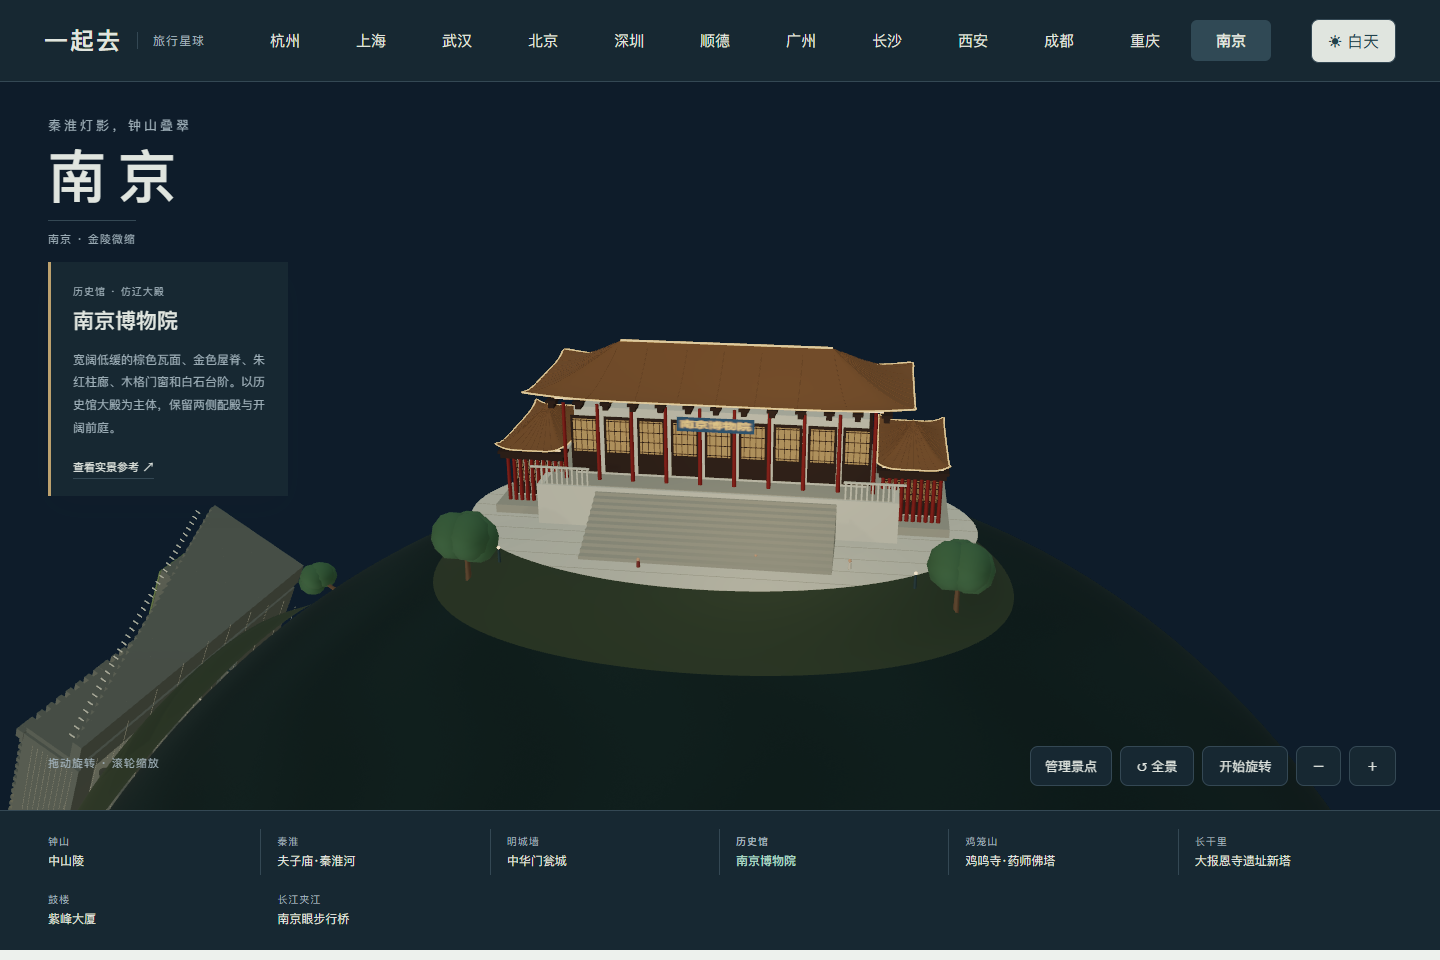
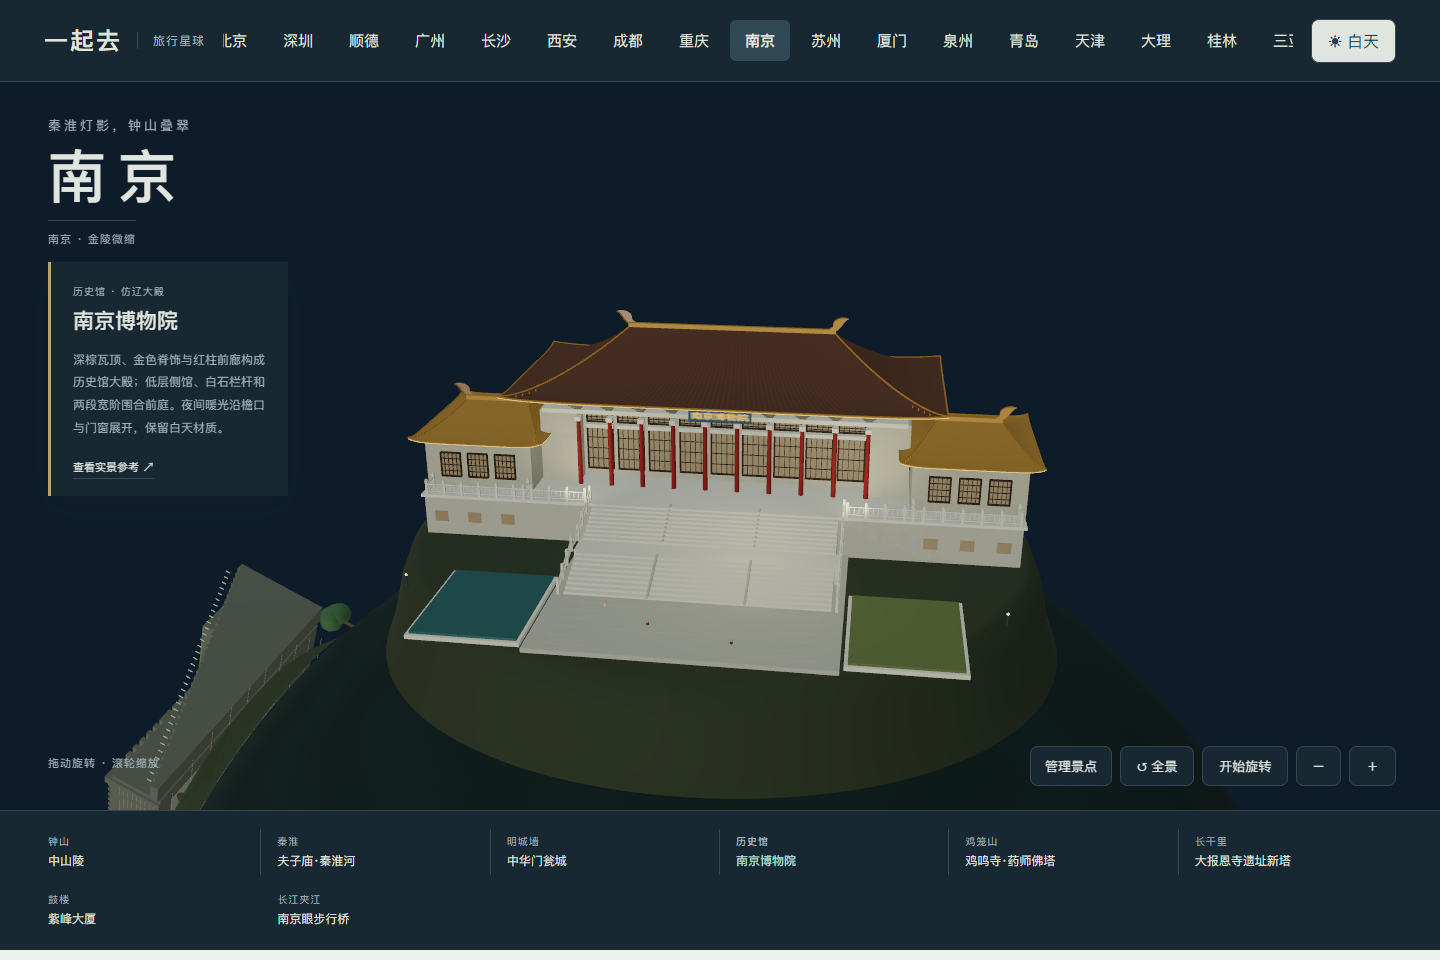
Refine Nanjing Museum historic hall from photo references

diff --git a/web/nanjing-museum.js b/web/nanjing-museum.js
@@ -1,0 +1,98 @@
+import * as THREE from 'three';
+import {disc,skin,sign,finish} from './nanjing-kit.js';
+
+// Photo-led History Hall: a deep hipped roof, stone end bays and lower attached galleries.
+function tileMaterial(k,color){
+ const m=k.mat(color,.78,.08),tex=new THREE.DataTexture(new Uint8Array([255,255,255,255]),1,1);tex.needsUpdate=true;m.map=tex;
+ m.onBeforeCompile=s=>{s.vertexShader='varying vec2 museumTileUv;\n'+s.vertexShader.replace('#include <begin_vertex>','#include <begin_vertex>\nmuseumTileUv=uv;');s.fragmentShader='varying vec2 museumTileUv;\n'+s.fragmentShader.replace('#include <color_fragment>',`#include <color_fragment>
+ float aa=max(fwidth(museumTileUv.x),.008),rib=1.0-smoothstep(.065,.065+aa,abs(fract(museumTileUv.x)-.5));
+ float visible=1.0-smoothstep(.35,.85,aa);float seam=smoothstep(.02,.02+max(fwidth(museumTileUv.y),.01),fract(museumTileUv.y));
+ diffuseColor.rgb*=mix(1.0,.88+.14*rib,visible)*mix(.97,1.0,seam);`);};m.customProgramCacheKey=()=> 'museum-tiles-v1';return m;
+}
+function tiledRoof(k,g,p,w,d,y,h,x,z,{gold=false}={}){
+ const ridge=w*.245,mat=gold?p.goldTile:p.tile;
+ const at=(side,u,v)=>{const hip=side>1,a=u*2-1,xx=hip?(side===2?1:-1)*(ridge+(w/2-ridge)*v):a*(ridge+(w/2-ridge)*v),zz=hip?a*d/2*v:(side===0?1:-1)*d/2*v;return [x+xx,y+h*(1-v)**1.7+.012*v**8*Math.abs(a)**8,z+zz];};
+ for(let side=0;side<4;side++){
+  const o=skin(k,g,(u,v)=>at(side,u,v),24,64,mat),uv=[];for(let j=0;j<=24;j++)for(let i=0;i<=64;i++)uv.push(i/64*(side<2?78:36),j/24*18);o.geometry.setAttribute('uv',new THREE.Float32BufferAttribute(uv,2));
+  const count=side<2?78:36;
+  k.line(g,Array.from({length:65},(_,i)=>at(side,i/64,1)),.003,p.gold);
+  k.line(g,Array.from({length:65},(_,i)=>{const a=at(side,i/64,1);a[1]-=.004;return a;}),.0013,p.light);
+  for(let i=0;i<=count;i++){const a=at(side,i/count,1),o=k.mesh(g,new THREE.CircleGeometry(.0018,8),p.gold,a[0],a[1]-.001,a[2]);o.rotation.y=side<2?(side?Math.PI:0):(side===2?Math.PI/2:-Math.PI/2);}
+ }
+ for(const s of [-1,1])k.line(g,Array.from({length:25},(_,i)=>at(0,s<0?0:1,i/24)),.0035,p.gold);
+ k.box(g,ridge*2,.014,.014,p.gold,x,y+h+.009,z);
+ for(const s of [-1,1]){
+  // Curled ridge-end ornaments replace pointed, generic pavilion tips.
+  const shape=new THREE.Shape();shape.moveTo(-.015,0);shape.bezierCurveTo(.018,.002,.019,.037,.039,.044);shape.bezierCurveTo(.010,.051,-.015,.037,-.009,.017);shape.lineTo(-.021,.008);shape.closePath();
+  const o=k.mesh(g,new THREE.ExtrudeGeometry(shape,{depth:.010,bevelEnabled:true,bevelSize:.001,bevelThickness:.001,bevelSegments:1,curveSegments:12}),p.gold,x+s*ridge,y+h+.009,z-.005);o.scale.x=s;
+  for(let i=0;i<4;i++){const a=at(0,s<0?.025:.975,.79+i*.05);k.cyl(g,.0017,.003,.007,p.gold,a[0],a[1]+.004,a[2],6);}
+ }
+}
+function rail(k,g,p,a,b){
+ const len=Math.hypot(b[0]-a[0],b[2]-a[2]),n=Math.max(1,Math.round(len/.055)),at=t=>a.map((v,i)=>v+(b[i]-v)*t);
+ for(const h of [.009,.034])k.beam(g,at(0).map((v,i)=>v+(i===1?h:0)),at(1).map((v,i)=>v+(i===1?h:0)),.0025,p.pale);
+ for(let i=0;i<=n;i++){const [x,y,z]=at(i/n);k.box(g,.008,.047,.008,p.pale,x,y+.022,z);k.ball(g,.005,p.pale,x,y+.047,z);}
+ for(let i=0;i<n*4;i++){const [x,y,z]=at((i+.5)/(n*4));k.box(g,.0024,.018,.0024,p.pale,x,y+.023,z);}
+}
+function pane(k,g,p,x,y,z,w,h,side=0){
+ const group=new THREE.Group();group.position.set(x,y,z);group.rotation.y=side;g.add(group);
+ k.box(group,w,h,.005,p.wood,0,0,0);k.box(group,w-.009,h-.010,.003,p.glass,0,0,.003);
+ for(let i=0;i<=5;i++)k.box(group,.0017,h,.004,p.wood,-w/2+i*w/5,0,.006);
+ for(let i=0;i<=4;i++)k.box(group,w,.0018,.004,p.wood,0,-h/2+i*h/4,.006);
+}
+export function museum(k){
+ const g=new THREE.Group(),p={land:k.mat('#8e9e7d',.98),stone:k.mat('#b7b7aa',.94),pale:k.mat('#d2d1c4',.87),wall:k.mat('#b9b8a6',.93),red:k.mat('#9e382b',.86),wood:k.mat('#493b2f',.88),tile:tileMaterial(k,'#694535'),gold:k.mat('#b98c39',.62,.23),goldTile:tileMaterial(k,'#af873d'),bracket:k.mat('#797968',.94),leaf:k.mat('#758151',.98),water:k.mat('#4c7c7c',.30,.3)};
+ p.land.userData.landscape=true;p.water.userData.water=true;
+ p.light=k.mat('#b99b64',.68,.10,'#f5c77b');p.light.userData.night.intensity=.65;
+ p.glass=k.mat('#525447',.54,.08,'#e4be82');p.glass.userData.night.intensity=.16;p.glass.userData.pulse={speed:.22,phase:1.7};
+ p.tile.userData.night={color:new THREE.Color('#9f8466'),intensity:.04};
+ const ground=(x,z)=>{const t=THREE.MathUtils.smoothstep(Math.hypot(x/1.09,z/1.01),.90,1),sag=2.15-Math.sqrt(Math.max(.001,2.15**2-x*x-z*z));return .016*(1-t)-sag*t+.002;};disc(k,g,1.09,1.01,ground,p.land);
+ // Level upper terrace and two broad flights with a shared landing.
+ k.box(g,1.88,.126,.71,p.stone,0,.081,-.225);k.box(g,1.90,.010,.72,p.pale,0,.149,-.225);
+ k.box(g,.84,.013,.68,p.stone,0,.024,.48);
+ const stair=(front,n,run,bottom,top)=>{for(let i=0;i<n;i++){const y=bottom+(top-bottom)*(i+1)/n;k.box(g,.77,y-.018,run/n+.001,p.pale,0,(y+.018)/2,front-i*run/n);}};
+ stair(.50,9,.165,.031,.092);k.box(g,.79,.074,.075,p.pale,0,.055,.306);stair(.263,9,.15,.092,.154);
+ for(const s of [-1,1]){
+  rail(k,g,p,[s*.40,.031,.51],[s*.40,.092,.35]);rail(k,g,p,[s*.40,.092,.35],[s*.40,.092,.27]);rail(k,g,p,[s*.40,.092,.27],[s*.40,.154,.11]);
+  rail(k,g,p,[s*.41,.154,.13],[s*.93,.154,.13]);rail(k,g,p,[s*.93,.154,.13],[s*.93,.154,-.16]);
+ }
+ for(const x of [-.14,.14]){k.beam(g,[x,.034,.51],[x,.096,.35],.004,p.stone);k.beam(g,[x,.096,.263],[x,.157,.113],.004,p.stone);}
+ // Main portico has real depth: the red columns stand in front of recessed doors.
+ const floor=.154,cz=-.27;
+ k.box(g,1.12,.245,.40,p.wall,0,floor+.1225,cz-.04);
+ for(const s of [-1,1])k.box(g,.125,.245,.46,p.wall,s*.5325,floor+.1225,cz);
+ k.box(g,1.17,.014,.48,p.pale,0,.400,cz);
+ for(let i=0;i<10;i++){
+  const x=(i-4.5)*.103;k.cyl(g,.0067,.008,.218,p.red,x,floor+.109,cz+.245,12);k.box(g,.020,.014,.025,p.pale,x,.381,cz+.245);
+  for(let level=0;level<3;level++){k.box(g,.022+level*.012,.006,.022+level*.008,p.bracket,x,.417+level*.008,cz+.246+level*.006);for(const s of [-1,1])k.box(g,.008,.010,.015,p.bracket,x+s*(.007+level*.006),.421+level*.008,cz+.25);}
+ }
+ for(let i=0;i<9;i++){
+  const x=(i-4)*.103;pane(k,g,p,x,.253,cz+.164,.088,.147);pane(k,g,p,x,.361,cz+.164,.088,.036);k.box(g,.090,.012,.018,p.pale,x,.330,cz+.167);
+ }
+ // Oversailing beams, repeated bracket sets and gold-brown tile relief.
+ for(const z of [cz+.255,cz-.255]){k.box(g,1.23,.013,.024,p.bracket,0,.443,z);for(let i=0;i<32;i++)k.box(g,.014,.010,.041,p.bracket,(i/31-.5)*1.20,.445,z);}
+ tiledRoof(k,g,p,1.40,.66,.457,.165,0,cz);
+ sign(k,g,'南京博物院',.20,.040,0,.416,cz+.274,{background:'#244a68',color:'#dfbc6a'});
+ // Lower side galleries have stone walls and attached corridors, rather than open kiosks.
+ for(const side of [-1,1]){
+  const x=side*.777;k.box(g,.35,.156,.44,p.wall,x,.232,-.16);
+  for(let i=0;i<3;i++)pane(k,g,p,x+(i-1)*.09,.235,.064,.067,.083);
+  for(let i=0;i<4;i++)pane(k,g,p,side*.954,.235,-.31+i*.097,.065,.083,side*Math.PI/2);
+  tiledRoof(k,g,p,.43,.51,.318,.063,x,-.16,{gold:true});
+  for(let i=0;i<3;i++)k.box(g,.043,.035,.002,p.glass,x+(i-1)*.11,.081,.133);
+  rail(k,g,p,[side*.61,.154,.13],[side*.61,.154,-.08]);
+ }
+ // Retain the low rear exhibition connection visible behind the old hall.
+ k.box(g,1.15,.20,.20,p.wall,0,.254,-.56);k.box(g,1.19,.018,.24,p.bracket,0,.363,-.56);
+ for(let i=0;i<14;i++)pane(k,g,p,(i-6.5)*.078,.268,-.662,.053,.085,Math.PI);
+ for(const side of [-1,1])for(let i=0;i<3;i++)pane(k,g,p,side*.597,.270,-.34+i*.10,.056,.096,side*Math.PI/2);
+ // The reflective forecourt and lawns preserve the main approach to the stairs.
+ for(const side of [-1,1]){
+  const x=side*.59;k.box(g,.32,.012,.39,p.pale,x,.024,.60);k.box(g,.30,.009,.37,side<0?p.water:p.leaf,x,.033,.60);
+  for(let i=0;i<6;i++)k.box(g,.11,.001,.0014,p.stone,side*.31,.032,.55+i*.047);
+ }
+ for(const z of [.43,.56,.69,.82])k.box(g,.53,.001,.0015,p.stone,0,.032,z);
+ finish(k,g,{lamps:[[-.87,.48],[.87,.48],[-.83,-.43],[.83,-.43]],visitors:[[-.11,.65],[.13,.72],[-.25,.56]]});
+ for(const x of [-.43,.43]){const light=new THREE.SpotLight('#e9dfc0',0,1.0,Math.PI*.28,.8,2);light.position.set(x,.21,.26);light.target.position.set(x,.40,-.22);light.userData.nightIntensity=.09;g.add(light,light.target);}
+ return g;
+}

diff --git a/web/nanjing-landmarks.js b/web/nanjing-landmarks.js
@@ -5,7 +5,7 @@ export const LANDMARKS=[
  {id:'mausoleum',name:'中山陵',area:'钟山 · 蓝瓦白石',x:-1.08,z:.94,height:.83,distance:3.0,view:[.24,.8,1.8],description:'宽阔石阶沿林木围合的山坡上升，祭堂补齐蓝琉璃瓦、灰石斗拱、卷草石雕、三座真实门洞和青铜花窗。四角石阙围住主殿，夜间以克制白光照亮石材层次。',source:'https://zschina.nanjing.gov.cn/lyzx/202504/t20250425_5135983.html'},
  {id:'fuzimiao',name:'夫子庙·秦淮河',area:'秦淮 · 檐影画舫',x:1.08,z:.94,height:.49,distance:3.0,view:[.32,.83,1.8],description:'大成殿、两侧廊屋、临水亭与红色照壁围绕秦淮水面。石栏、木格窗和画舫保留尺度层次，夜间用檐下暖光照出水岸。',source:'https://js.cnr.cn/whly/20220418/t20220418_525798755.shtml'},
  {id:'zhonghua',name:'中华门瓮城',area:'明城墙 · 三重瓮城',x:-1.08,z:-.94,height:.42,distance:3.0,view:[.70,1.0,1.8],description:'三重内瓮城、贯通门洞、两层主城台、藏兵洞和两侧登城马道。按现存城台建模，城顶不加已经毁失的木构城楼。',source:'https://wlj.nanjing.gov.cn/ztzl/mcq/gzqk/202302/t20230228_3838766.html'},
- {id:'museum',name:'南京博物院',area:'历史馆 · 仿辽大殿',x:1.08,z:-.94,height:.47,distance:2.9,view:[.25,.68,1.8],description:'宽阔低缓的棕色瓦面、金色屋脊、朱红柱廊、木格门窗和白石台阶。以历史馆大殿为主体，保留两侧配殿与开阔前庭。',source:'https://zfgbpx.nju.edu.cn/7c/d1/c46023a556241/page.htm'},
+ {id:'museum',name:'南京博物院',area:'历史馆 · 仿辽大殿',x:1.22,z:-1.09,height:.69,distance:3.65,view:[.25,.68,1.8],description:'深棕瓦顶、金色脊饰与红柱前廊构成历史馆大殿；低层侧馆、白石栏杆和两段宽阶围合前庭。夜间暖光沿檐口与门窗展开，保留白天材质。',source:'https://shpx.nju.edu.cn/9a/aa/c59556a694954/page.htm'},
  {id:'jiming',name:'鸡鸣寺·药师佛塔',area:'鸡笼山 · 黄墙古塔',x:-1.08,z:.94,hemisphere:-1,height:1.0,distance:3.05,view:[.45,.75,1.8],description:'黄色院墙与殿堂沿坡叠升，七层八角药师佛塔露出深色翘檐与金色塔刹。石阶连接各层庭院，树冠围住寺院侧后方。',source:'https://you.ctrip.com/sight/nanjing9/1677.html'},
  {id:'baoen',name:'大报恩寺遗址新塔',area:'长干里 · 玻璃保护塔',x:1.08,z:.94,hemisphere:-1,height:1.14,distance:2.85,view:[.40,.68,1.8],description:'九层八角玻璃塔、纤细外框、层间透光平台与金色塔刹。表现遗址上的现代保护建筑，夜间分出暖金层灯和上层冷色玻璃。',source:'https://www.waclighting.com.cn/cases-detail/27'},
  {id:'zifeng',name:'紫峰大厦',area:'鼓楼 · 层叠天际线',x:-1.08,z:-.94,hemisphere:-1,height:1.59,distance:3.2,view:[.40,.64,1.8],description:'错开的上下玻璃体量、外露设备层、银色竖片、圆弧侧面和细长尖塔。夜景保留银灰建筑原色，窗灯缓慢明暗变化。',source:'https://www.smithgill.com/work/zifeng_tower/'},

diff --git a/web/nanjing-heritage.js b/web/nanjing-heritage.js
@@ -2,15 +2,8 @@ import * as THREE from 'three';
 import {palette,site,paving,steps,grove,sign,finish,hall,hip,cornice,archWall,pond,bridge} from './nanjing-kit.js';
 export {mausoleum} from './nanjing-mausoleum.js';
 
-export function museum(k){
- const g=new THREE.Group(),p=palette(k),ground=site(k,g,.75,.59);paving(k,g,p,.65,.40);
- steps(k,g,p,0,.28,.60,12,.105,.22);k.box(g,.90,.106,.40,p.pale,0,.075,-.10);
- const brown=k.mat('#956b42',.83);hall(k,g,p,{w:.82,d:.33,h:.20,y:.13,z:-.10,roof:brown,roofEdge:p.gold});
- for(const x of [-.48,.48])hall(k,g,p,{x,z:-.13,y:.045,w:.15,d:.31,h:.13,roof:brown,roofEdge:p.gold});
- for(const s of [-1,1]){for(let i=0;i<10;i++){const x=s*(.32+i*.013);k.box(g,.004,.042,.004,p.pale,x,.15,.096);}k.box(g,.15,.004,.006,p.pale,s*.39,.174,.096);}
- sign(k,g,'南京博物院',.19,.037,0,.299,.081,{background:'#284e6d',color:'#e8bf74'});grove(k,g,ground,[[-.59,.25,.13],[.59,.25,.13]]);
- return finish(k,g,{lamps:[[-.49,.30],[.49,.30],[-.30,-.35],[.30,-.35]],visitors:[[-.15,.31],[.12,.25],[.34,.25]]});
-}
+export {museum} from './nanjing-museum.js';
+
 export function fuzimiao(k){
  const g=new THREE.Group(),p=palette(k),ground=site(k,g,.73,.68);paving(k,g,p,.61,.53);
  hall(k,g,p,{w:.54,d:.25,h:.19,y:.05,z:-.30,double:true});sign(k,g,'大成殿',.11,.024,0,.27,-.149,{background:'#263b31',color:'#d9b66b'});

diff --git a/README.md b/README.md
@@ -1,6 +1,6 @@
 # 一起去 · Travel Planet
 
-用可旋转的 3D 城市星球发现景点，再和朋友一起决定怎么旅行。当前版本 **0.55.33**，支持桌面和手机网页。
+用可旋转的 3D 城市星球发现景点，再和朋友一起决定怎么旅行。当前版本 **0.55.34**，支持桌面和手机网页。
 
 **[上海旅行 · 在线体验](https://43.139.249.151/travel/shanghai-trip.html)** · **[杭州旅行](https://43.139.249.151/travel/)** · **[武汉旅行](https://43.139.249.151/travel/wuhan-trip.html)** · **[武汉纯地图](https://43.139.249.151/travel/wuhan.html)** · **[上海纯地图](https://43.139.249.151/travel/shanghai.html)** · **[北京地图](https://43.139.249.151/travel/beijing.html)** · **[深圳地图](https://43.139.249.151/travel/shenzhen.html)** · **[顺德地图](https://43.139.249.151/travel/shunde.html)** · **[广州地图](https://43.139.249.151/travel/guangzhou.html)** · **[长沙地图](https://43.139.249.151/travel/changsha.html)** · **[西安地图](https://43.139.249.151/travel/xian.html)** · **[成都地图](https://43.139.249.151/travel/chengdu.html)** · **[重庆地图](https://43.139.249.151/travel/chongqing.html)** · **[南京地图](https://43.139.249.151/travel/nanjing.html)** · **[苏州地图](https://43.139.249.151/travel/suzhou.html)** · **[厦门地图](https://43.139.249.151/travel/xiamen.html)** · **[泉州地图](https://43.139.249.151/travel/quanzhou.html)** · **[青岛地图](https://43.139.249.151/travel/qingdao.html)** · **[天津地图](https://43.139.249.151/travel/tianjin.html)** · **[大理地图](https://43.139.249.151/travel/dali.html)** · **[桂林地图](https://43.139.249.151/travel/guilin.html)** · **[三亚地图](https://43.139.249.151/travel/sanya.html)** · **[香港地图](https://43.139.249.151/travel/hongkong.html)** · **[澳门地图](https://43.139.249.151/travel/macau.html)**
 
@@ -37,7 +37,7 @@
 
 重庆新增 **8 组具名地标**：洪崖洞、来福士朝天门、千厮门大桥、重庆大剧院、人民大礼堂、人民解放纪念碑、李子坝单轨穿楼和长江索道。连续河道表现两江交汇，八组分布于两半球；洪崖洞包含临江山墙、错层露台、退后的暗窗、吊脚柱、贯通入口和连续崖坡；保留玻璃连廊、桥塔真开口、绿瓦圆殿、穿楼通道与悬挂轿厢。提供日夜、自由旋转、手机触控和整组管理，重庆尚未接入多人旅行。[查看实拍参考](docs/CHONGQING_REFERENCES.md)。
 
-南京新增 **8 组具名地标**：中山陵、夫子庙秦淮河、中华门瓮城、南京博物院、鸡鸣寺药师佛塔、大报恩寺遗址新塔、紫峰大厦和南京眼。中山陵补齐蓝瓦屋面、灰石斗拱、卷草石雕、青铜花窗、真实门洞与承托山坡；保留连续石阶、贯通藏兵洞、古建木格门窗、玻璃保护塔与倾斜双桥环；双半球布局，支持日夜、近看、手机触控和整组管理。南京当前未接入多人旅行。[查看实拍参考](docs/NANJING_REFERENCES.md)。
+南京新增 **8 组具名地标**：中山陵、夫子庙秦淮河、中华门瓮城、南京博物院、鸡鸣寺药师佛塔、大报恩寺遗址新塔、紫峰大厦和南京眼。中山陵补齐蓝瓦屋面、灰石斗拱、卷草石雕、青铜花窗、真实门洞与承托山坡；保留连续石阶、贯通藏兵洞、古建木格门窗、玻璃保护塔与倾斜双桥环；双半球布局，支持日夜、近看、手机触控和整组管理。南京博物院补齐深棕瓦顶、金色脊饰、红柱前廊、相连侧馆和两段宽阶，夜间采用檐口与门窗暖光。南京当前未接入多人旅行。[查看实拍参考](docs/NANJING_REFERENCES.md)。
 
 苏州博物馆已补齐八角主厅、菱格石屋面、下沉玻璃天窗、通透连廊、片石水院与门庭。苏州新增 **8 组具名地标**：苏州博物馆、拙政园、留园冠云峰、虎丘云岩寺塔、寒山寺普明宝塔、东方之门、盘门水陆城门和平江路胡厢使桥。保留几何水院、六角荷亭、穿孔太湖石、砖塔与木塔的不同形制，以及水陆门洞和银灰玻璃尖拱；支持两半球、日夜、自由旋转、手机触控和整组管理。苏州当前未接入多人旅行。[查看实拍参考](docs/SUZHOU_REFERENCES.md)。
 

diff --git a/docs/TESTING.md b/docs/TESTING.md
@@ -406,3 +406,10 @@ python tools/travel-flow-check.py
 353 项完整测试、358 项语法检查通过，含 7 项重庆专项。新增检查确认三处牌楼开口可通行，中央步道与多级台地连续连接且无突兀高差；双半球间距、球面落地、原色保持、动画与资源释放继续通过。
 
 2026-11-04 21:00—21:03，本地无头浏览器完成八组取景、日夜正侧背、320/390、整组管理与刷新、触控缩放拖动、键盘、五种宽度及 WebGL 恢复。关键截图直接核看，页面异常与业务写入均为 0，手机为浏览器模拟。两轮草稿中修正侧墙空白和屋顶夜间过暗，降低瓦垄密度；不以单张正面图代替交互验收。
+
+
+## 0.55.34 南京博物院
+
+354 项完整测试、359 项语法检查通过，含 5 项南京专项。新增检查覆盖两段台阶及中间平台连续性、柱廊门扇真实退进、瓦面合并后保留纹理坐标。既有球面落地、双半球净空、日夜底色、动画与资源释放继续通过。
+
+2026-11-04 21:25—21:28，本地独立内存服务与无头浏览器完成八组取景、日夜正侧背及手机画面、整组增删与刷新恢复、触控缩放拖动、键盘、五种宽度和 WebGL 恢复。关键截图直接核看，页面错误和业务写入均为 0。手机为浏览器模拟。草稿中瓦垄摩尔纹和台阶接驳缝隙已经修正；模型仅表现历史馆大殿及局部前庭，不冒充完整院区。

diff --git a/docs/NANJING_REFERENCES.md b/docs/NANJING_REFERENCES.md
@@ -35,3 +35,14 @@
 ![祭堂侧向细节](images/nanjing-mausoleum-oblique.png)
 
 ![祭堂夜间展示](images/nanjing-mausoleum-night.png)
+
+
+## 0.55.34 南京博物院历史馆细化
+
+对照[南京大学夜景实拍](https://shpx.nju.edu.cn/9a/aa/c59556a694954/page.htm)、[维基小霸王拍摄的正面照片](https://commons.wikimedia.org/wiki/File:Nanjing_Museum_-_main_building.jpg)及[南京博物院2022年报第170页](https://www.njmuseum.org.cn/files/nb/news/files/2023/02/13/89d976f1cd9fff8638ea34ef842df434.pdf)的侧俯视，重新表现历史馆老大殿：深棕瓦面、金色脊饰与鸱尾、朱红前廊、石墙端间、木格门窗和低层侧馆。两段宽阶、休息平台及白石栏杆连接前庭；水庭与草地让中轴保持开敞。
+
+瓦垄使用按屏幕尺度柔化的程序纹理，避免远景出现摩尔纹。夜间檐线、窗灯和入口补光分层，建筑原色保留；缓慢变化属于产品展示设计，不代表现实夜游时间或固定灯光节目。本模块只概括历史馆及局部前庭，没有宣称完整还原“一院六馆”。参考照片仅供核看，未作为网页资产或收入源码包。
+
+![历史馆日景模型](images/nanjing-museum.png)
+
+![历史馆侧向细节](images/nanjing-museum-oblique.png)
